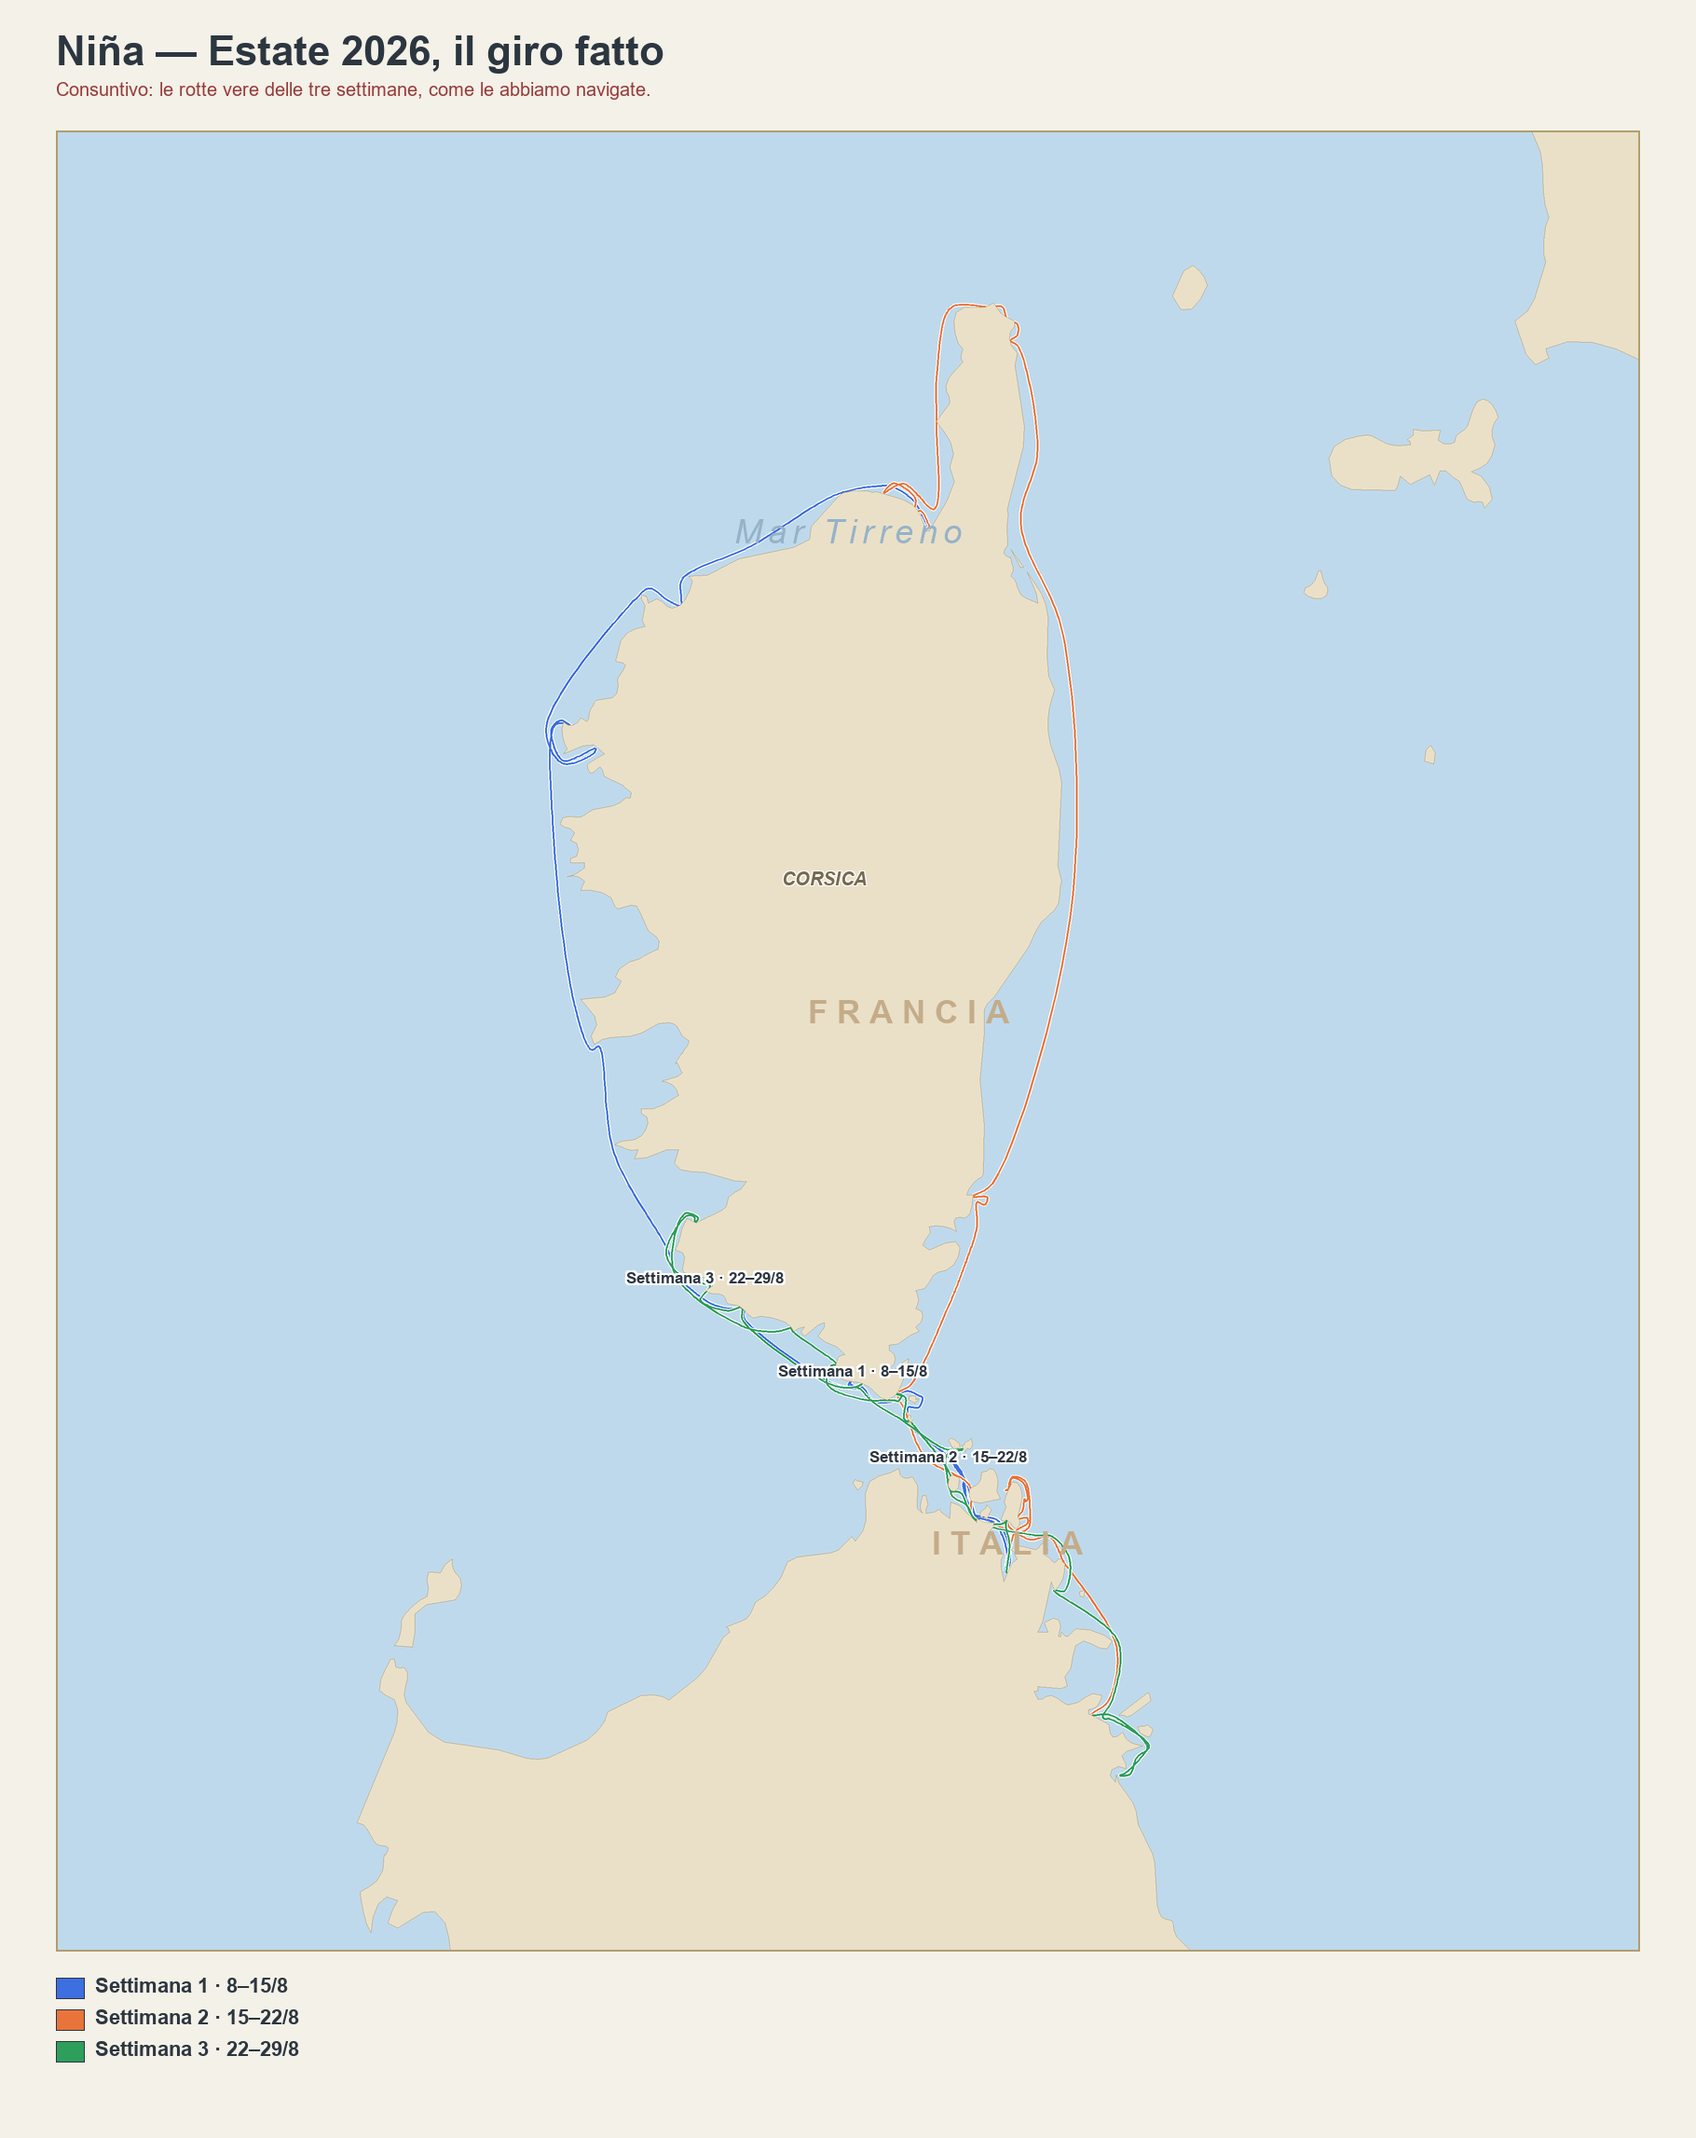
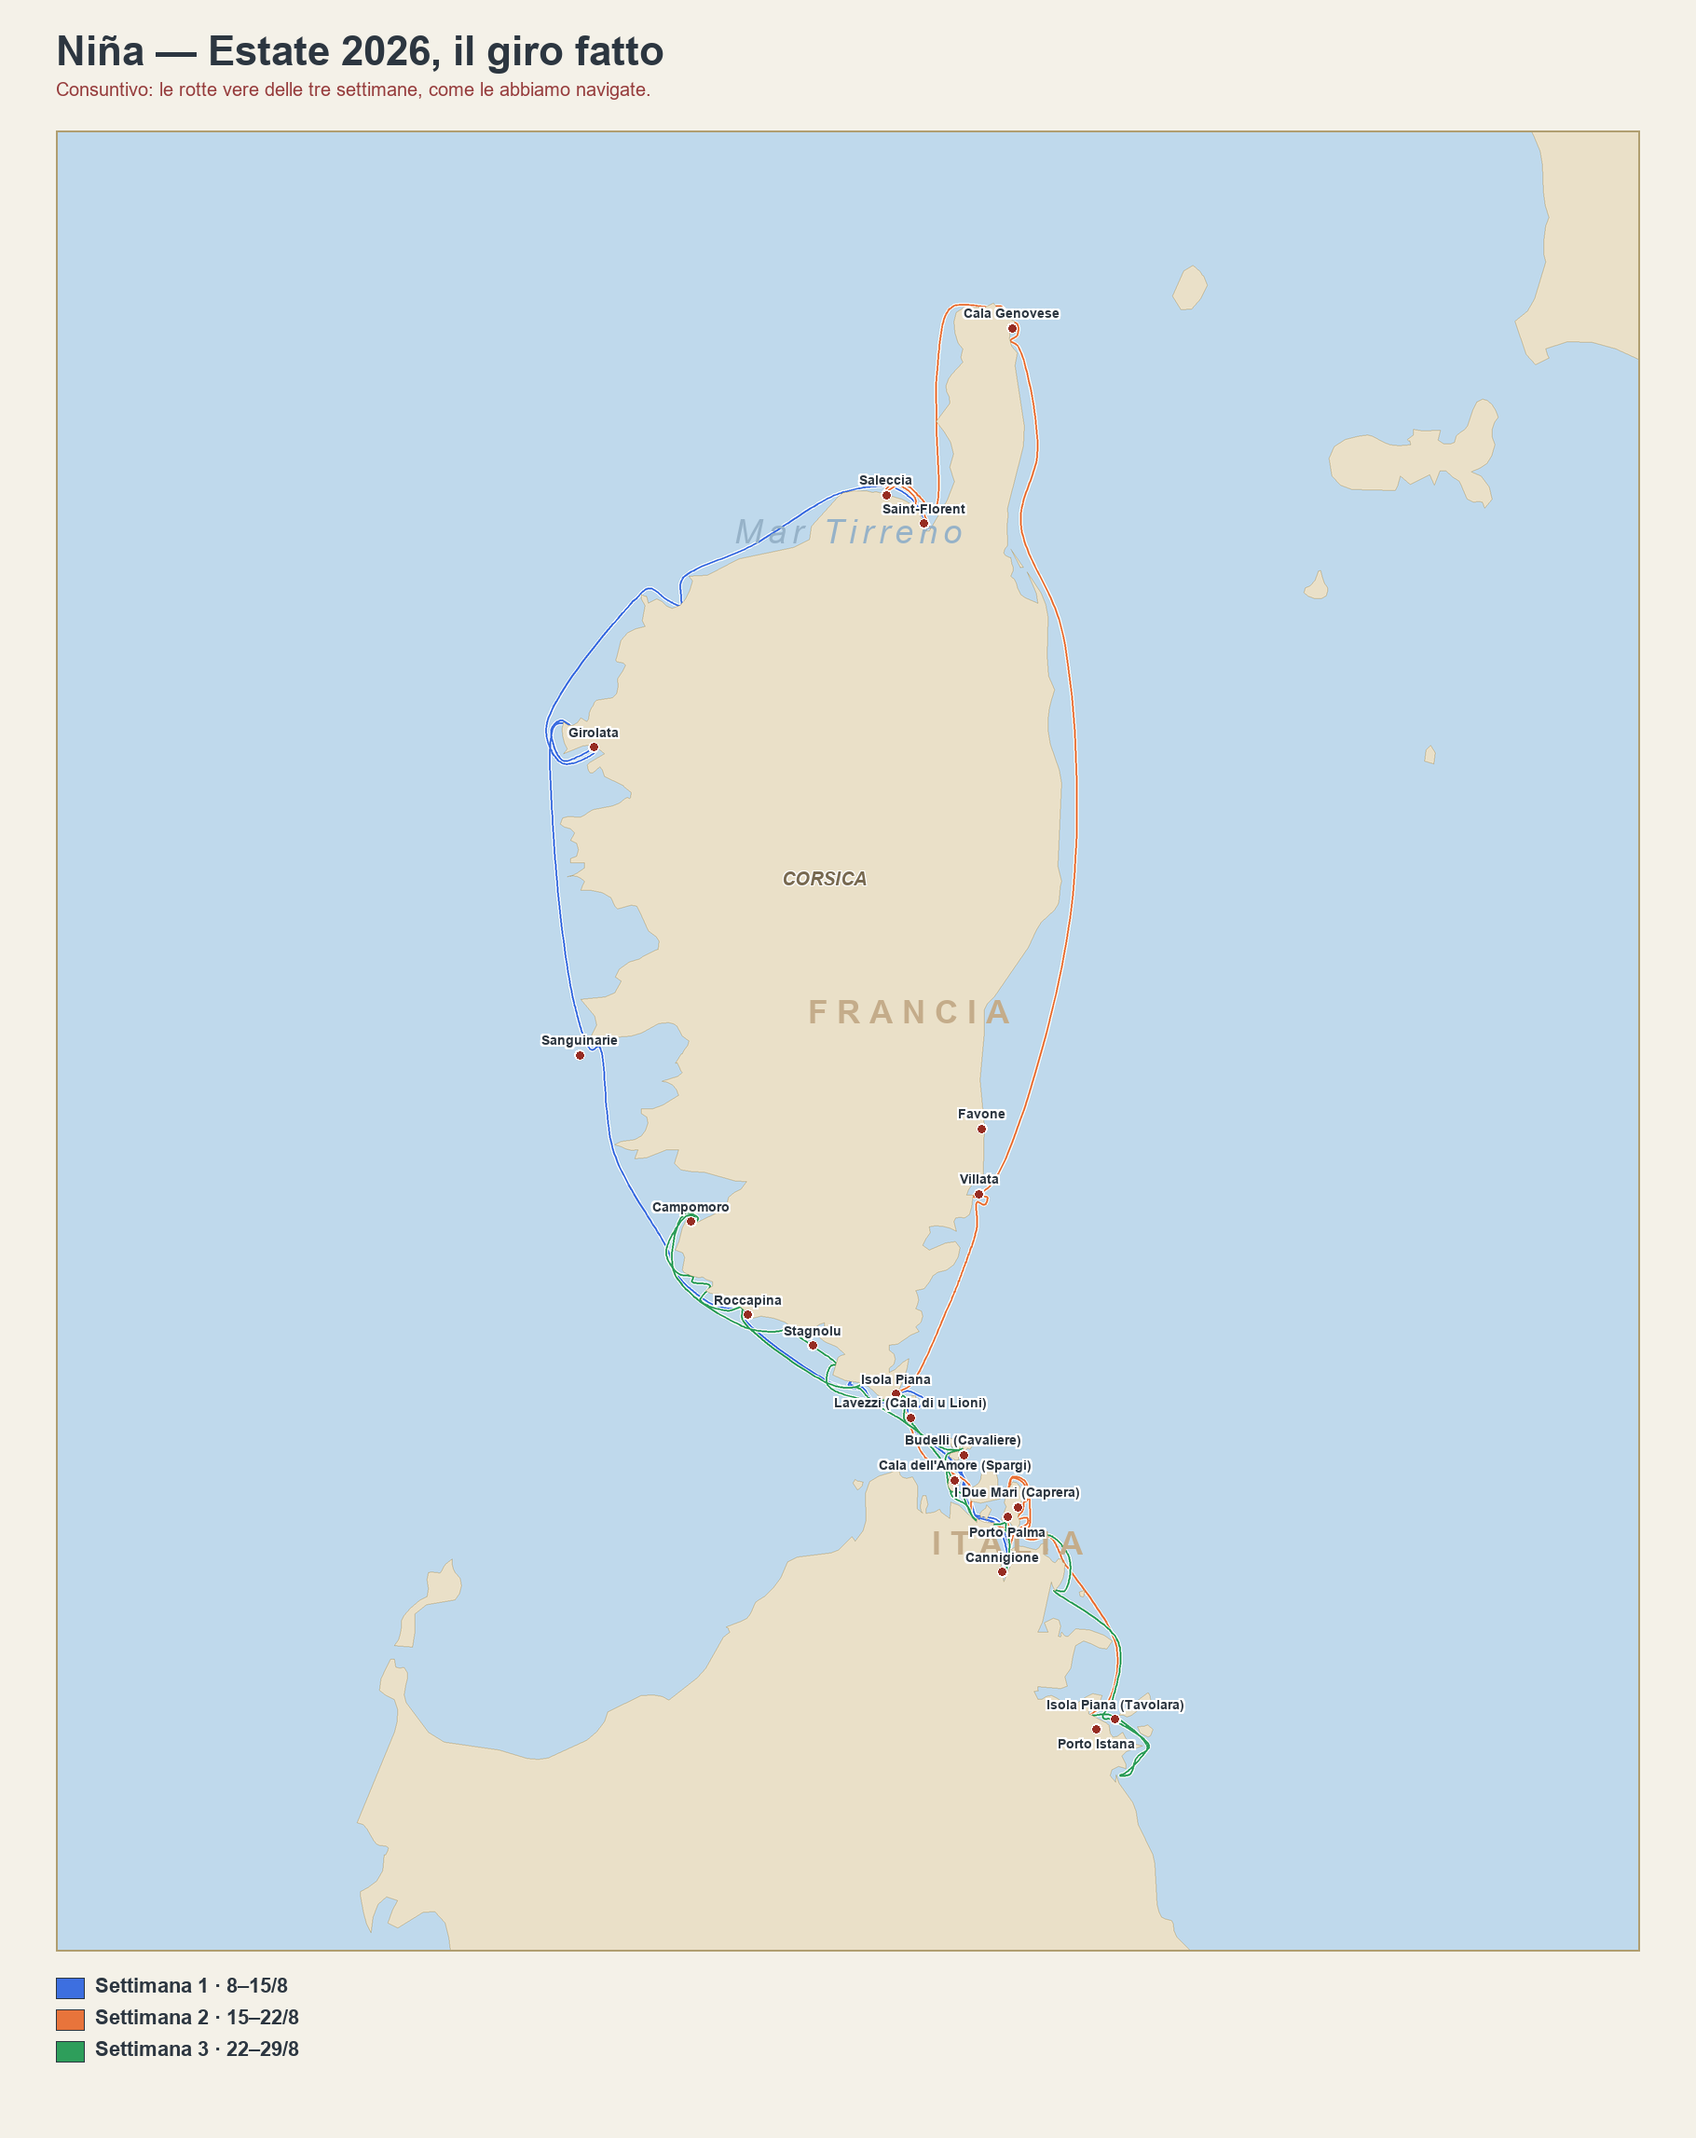
Riepilogo: giorno per giorno dal diario di bordo, spot sulle mappe
Dal foglio 'Percorso Effettivo': tabella giornaliera per settimana su
riepilogo.html (rada mattina -> pranzo -> notte, nm dal tracciato KML
riconciliate sui leg 198/210/157). Mappe rigenerate con i pernottamenti
evidenziati (data/spots-nina-2026.json, pallino+etichetta anti-collisione;
via le label viaggio ridondanti). Fix cambi reali: Saint-Florent e Porto
Istana (story + turni). sw SHELL v112.

diff --git a/site/riepilogo.html b/site/riepilogo.html
@@ -73,6 +73,17 @@ section{padding:0 1.1rem 1.6rem}
 .cn{display:block;font-size:.86rem;font-weight:600;white-space:nowrap;overflow:hidden;text-overflow:ellipsis}
 .cr{display:block;font:600 .64rem/1.3 var(--mono);color:var(--soft);white-space:nowrap;overflow:hidden;text-overflow:ellipsis}
 .cr em{color:var(--gold);font-style:normal}
+/* giorno per giorno */
+.gg{width:100%;border-collapse:collapse;margin:.2rem 0 .9rem}
+.gg th{font:700 .58rem/1.3 var(--display);letter-spacing:.12em;text-transform:uppercase;color:var(--soft);
+  text-align:left;padding:.3rem .45rem;border-bottom:1px solid var(--hair)}
+.gg td{padding:.42rem .45rem;border-bottom:1px dashed var(--hair);font-size:.86rem;vertical-align:top}
+.gg tr:last-child td{border-bottom:0}
+.gg .gd{white-space:nowrap;font:600 .74rem/1.6 var(--mono);color:var(--accent)}
+.gg .gnm{text-align:right;font:600 .8rem/1.6 var(--mono);color:var(--ink);white-space:nowrap}
+.gg .gr b{font-weight:600}
+.gg .gnote{display:block;font-size:.74rem;color:var(--soft);margin-top:.15rem}
+.gg .arr{color:var(--soft)}
 /* tappe & momenti */
 .ports{display:flex;flex-wrap:wrap;gap:.4rem;margin-top:.9rem}
 .ports .pc{font:600 .72rem/1 var(--mono);color:var(--ink);border:1px solid var(--hair);border-radius:99px;
@@ -138,6 +149,19 @@ function crewCard(m) {
     <span class="cmid"><span class="cn">${esc(m.n)}</span>${sub ? `<span class="cr">${sub}</span>` : ""}</span></a>`;
 }
 
+const dshortDay = s => day(s).toLocaleDateString("it", { weekday: "short", day: "numeric" });
+function dayTable(days) {
+  if (!(days || []).length) return "";
+  const rows = days.map(r => {
+    const hops = [r.am, r.lunch].filter(Boolean).map(esc).join(` <span class="arr">→</span> `);
+    return `<tr><td class="gd">${esc(dshortDay(r.d))}</td>
+      <td class="gr">${hops ? hops + ` <span class="arr">→</span> ` : ""}<b>${esc(r.night)}</b>${r.note ? `<span class="gnote">${esc(r.note)}</span>` : ""}</td>
+      <td class="gnm">${r.nm != null ? r.nm : "—"}</td></tr>`;
+  }).join("");
+  return `<div class="ct">Il giro, giorno per giorno</div>
+    <table class="gg"><thead><tr><th>Giorno</th><th>Rotta</th><th style="text-align:right">nm</th></tr></thead><tbody>${rows}</tbody></table>`;
+}
+
 function legBlock(leg, crew) {
   const people = legCrew(crew, leg);
   const nights = Math.round((day(leg.end) - day(leg.start)) / 864e5);
@@ -150,6 +174,7 @@ function legBlock(leg, crew) {
       <span class="db"><b>A bordo</b> ${people.length}</span>
     </div>
     <div class="mapbox">${mapImg(leg.img, "Rotta della " + leg.name)}<p class="mcap">Tocca la mappa per ingrandire.</p></div>
+    ${dayTable(leg.days)}
     <div class="ct">L'equipaggio</div>
     <div class="cgrid">${people.map(crewCard).join("")}</div>
     ${(leg.ports || []).length ? `<div class="ports">${leg.ports.map(p => `<span class="pc">⚓ ${esc(p)}</span>`).join("")}</div>` : ""}

diff --git a/site/sw.js b/site/sw.js
@@ -8,7 +8,7 @@
 // SHELL si bumpa a ogni release del guscio; DATA NON si rinomina mai
 // (l'activate cancella le cache con altri nomi: si perderebbe l'ultimo
 // briefing buono per l'offline).
-const SHELL = "nina-shell-v111";
+const SHELL = "nina-shell-v112";
 const DATA = "nina-data-v1";
 const FILES = ["./", "./index.html", "./skipper.html", "./classifica.html", "./aneddoti.html", "./mete.html", "./barca.html", "./arrivi.html", "./avionica.html", "./guida.html", "./membro.html", "./viaggio.html", "./paese.html", "./foto.html", "./manifesto.html", "./unisciti.html", "./login.html", "./profilo.html", "./privacy.html", "./cielo.html", "./rotta.html", "./diario.html", "./riepilogo.html", "./oroscopo.html", "./theme.js", "./nav.js", "./ranks.js", "./config.js", "./auth.js", "./zodiac.js", "./manifest.json",
                "./icon-192.png", "./icon-512.png", "./icon-180.png"];

diff --git a/scripts/render_routes.py b/scripts/render_routes.py
@@ -922,7 +922,7 @@ def _place_labels(draw, panel_w, panel_h, items, font):
         _text_halo(draw, (cx, cy), text, font, fill=INK, halo=(255, 255, 255), r=2)
 
 
-def _region_panel(trips, polys, panel_w, S=2, pad=0.12, min_span=0.5, borders=None):
+def _region_panel(trips, polys, panel_w, S=2, pad=0.12, min_span=0.5, borders=None, spots=None):
     alllon = np.concatenate([t["lonlat"][:, 0] for t in trips])
     alllat = np.concatenate([t["lonlat"][:, 1] for t in trips])
     latmid = (alllat.min() + alllat.max()) / 2
@@ -978,13 +978,29 @@ def _region_panel(trips, polys, panel_w, S=2, pad=0.12, min_span=0.5, borders=No
             _text_halo(d1, (float(p[0]), float(p[1])), name.upper(), gifont,
                        fill=(120, 105, 80), halo=(255, 255, 255), r=1)
 
-    # etichette viaggi (crisp, anti-collisione) — sopra tutto
-    items = []
-    for t in trips:
-        rp = proj1(smooth_track(t["lonlat"]))
-        mid = rp[len(rp) // 2]
-        items.append(((float(mid[0]), float(mid[1])), t["name"]))
-    _place_labels(d1, panel_w, panel_h, items, _font(17, bold=True))
+    # spot (rade/porti del consuntivo): pallino + etichetta anti-collisione
+    if spots:
+        sfont = _font(max(12, panel_w // 115), bold=True)
+        items_s = []
+        for name, lat, lon in spots:
+            if not _inview(lat, lon):
+                continue
+            p = proj1(np.array([[lon, lat]]))[0]
+            x, y = float(p[0]), float(p[1])
+            d1.ellipse([x - 5.5, y - 5.5, x + 5.5, y + 5.5], fill=(255, 255, 255))
+            d1.ellipse([x - 4, y - 4, x + 4, y + 4], fill=(150, 44, 34))
+            items_s.append(((x, y), name))
+        _place_labels(d1, panel_w, panel_h, items_s, sfont)
+
+    # etichette viaggi (crisp, anti-collisione) — sopra tutto. Con gli spot attivi
+    # si omettono: farebbero collisione con le etichette rada e la legenda basta.
+    if not spots:
+        items = []
+        for t in trips:
+            rp = proj1(smooth_track(t["lonlat"]))
+            mid = rp[len(rp) // 2]
+            items.append(((float(mid[0]), float(mid[1])), t["name"]))
+        _place_labels(d1, panel_w, panel_h, items, _font(17, bold=True))
     return img
 
 
@@ -1099,7 +1115,7 @@ def _desaturate(hexcol: str, toward=(214, 208, 195), amt=0.75) -> str:
     return f"#{r:02x}{g:02x}{b:02x}"
 
 
-def render_nina_overview(kml_path: Path, polys, borders=None, emphasize: str | None = None, title: str | None = None, out_name: str = "nina-2026-overview.png", subtitle: str | None = None):
+def render_nina_overview(kml_path: Path, polys, borders=None, emphasize: str | None = None, title: str | None = None, out_name: str = "nina-2026-overview.png", subtitle: str | None = None, spots=None):
     """Mappa d'insieme del giro previsto 2026 (Niña): le rotte di data/rotte-nina.kml
     (OVEST/EST/Giro corto), coi colori VERI del KML — non la palette generica
     kml_color(i,n) usata per l'archivio storico. Una sola immagine, non un
@@ -1122,7 +1138,7 @@ def render_nina_overview(kml_path: Path, polys, borders=None, emphasize: str | N
 
     PANEL_W = 1700
     MARGIN = 60
-    panel = _region_panel(trips, polys, PANEL_W, borders=borders)
+    panel = _region_panel(trips, polys, PANEL_W, borders=borders, spots=spots)
 
     title_h = 100
     sub_h = 40
@@ -1201,16 +1217,23 @@ def main():
             print(f"  {t['name']}: {nm:.0f} nm")
         polys = load_land()
         borders = load_borders()
+        # spot (rade/porti) del consuntivo: overview = tutti, variante-settimana = solo i suoi
+        spots_file = ROOT / "data" / "spots-nina-2026.json"
+        all_spots = []
+        if spots_file.exists():
+            all_spots = json.loads(spots_file.read_text(encoding="utf-8"))["spots"]
+        by_leg = lambda leg: [(s["name"], s["lat"], s["lon"]) for s in all_spots if leg in s.get("legs", [])]
+        every = [(s["name"], s["lat"], s["lon"]) for s in all_spots]
         sub = "Consuntivo: le rotte vere delle tre settimane, come le abbiamo navigate."
         out, size = render_nina_overview(src, polys, borders, title="Niña — Estate 2026, il giro fatto",
-                                         subtitle=sub, out_name="riepilogo-2026-overview.png")
+                                         subtitle=sub, out_name="riepilogo-2026-overview.png", spots=every)
         print(f"Consuntivo -> {out.name}  {size[0]}x{size[1]}")
         for i in (1, 2, 3):
             key = f"Settimana {i}"
             name = next((t["name"] for t in trips if key.lower() in t["name"].lower()), key)
             out_i, size_i = render_nina_overview(src, polys, borders, emphasize=key,
                                                  title=f"Niña — {name}", subtitle=sub,
-                                                 out_name=f"riepilogo-2026-w{i}.png")
+                                                 out_name=f"riepilogo-2026-w{i}.png", spots=by_leg(f"w{i}"))
             print(f"Consuntivo -> {out_i.name}  {size_i[0]}x{size_i[1]}")
         return
 
